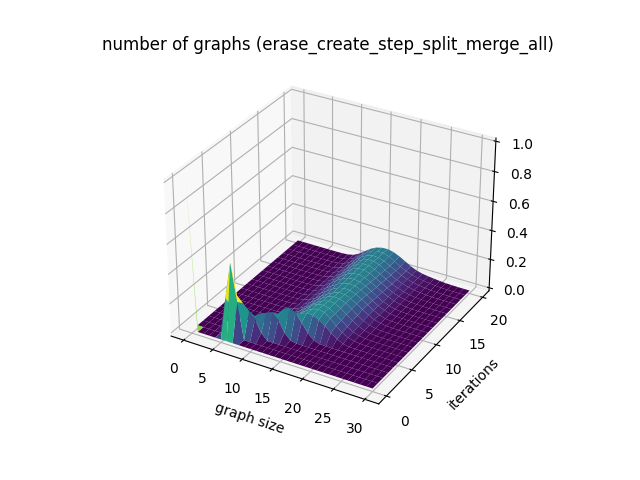
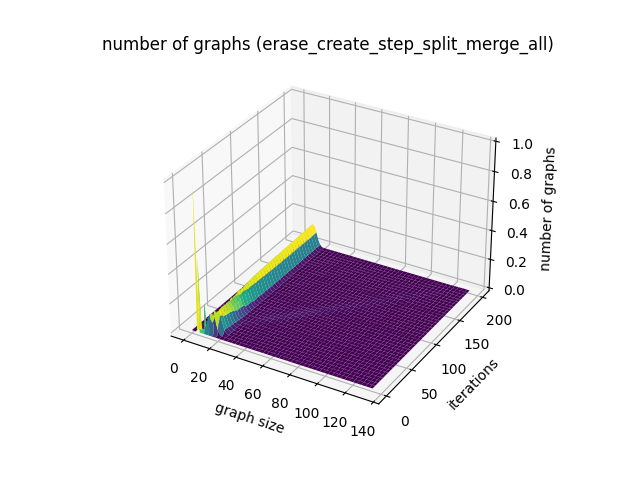
small improvments and added new rules

diff --git a/v5/grapher/quantum_iteration.cpp b/v5/grapher/quantum_iteration.cpp
@@ -11,6 +11,10 @@
     #define RULE "erase_create_step_split_merge_all"; //"step_split_merge_all" //"step_erase_create_all" //"split_merge_step_erase_create_all"
 #endif
 
+#ifndef RULE2
+    #define RULE2 ""; //"step_split_merge_all" //"step_erase_create_all" //"split_merge_step_erase_create_all"
+#endif
+
 #ifndef N_ITER
     #define N_ITER 20
 #endif
@@ -34,8 +38,9 @@ int main() {
     auto [non_merge, merge] = unitary(M_PI_4, M_PI_2);
 
     std::function<tbb::concurrent_vector<std::pair<std::shared_ptr<graph_t>, std::complex<double>>>(std::shared_ptr<graph_t> g)> rule;
+    std::function<tbb::concurrent_vector<std::pair<std::shared_ptr<graph_t>, std::complex<double>>>(std::shared_ptr<graph_t> g)> rule2;
 
-    auto rule_ = RULE;
+    std::string rule_ = RULE;
     if (rule_ == "step_split_merge_all") {
         rule = step_split_merge_all(non_merge, merge);
     } else if (rule_ == "step_erase_create_all") {
@@ -47,9 +52,27 @@ int main() {
     } else
         return -1;
 
-    start_json(g_1, rule_);
+    bool rule2_ = true;
+    rule_ = RULE2;
+    if (rule_ == "split_merge_all") {
+        rule2 = split_merge_all(non_merge, merge);
+    } if (rule_ == "erase_create_all") {
+        rule2 = erase_create_all(non_merge, merge);
+    } else
+        rule2_ = false;
+
+    if (rule2_)
+        rule_ += "_";
+
+    rule_ += RULE;
+    start_json(g_1, rule_.c_str());
     
     for (int i = 1; i < N_ITER + 1; ++i) {
+        if (rule2_) {
+            s->step_all(rule2);
+            s->reduce_all();
+        }
+
         s->step_all(rule);
         s->reduce_all();
 

diff --git a/v5/quantum/state.hpp b/v5/quantum/state.hpp
@@ -4,6 +4,7 @@
 #include "../classical/graph.hpp"
 #include <tbb/concurrent_unordered_map.h>
 #include <tbb/concurrent_vector.h>
+#include <boost/range/combine.hpp>
 #include <map>
 
 // forward definition of the state type
@@ -24,7 +25,21 @@ public:
 	// comparator
 	struct graph_comparator {
 		bool operator()(std::shared_ptr<graph_t> const &g1, std::shared_ptr<graph_t> const &g2) const {
-			return g1.get()->hash() == g2.get()->hash();
+			#ifdef SLOW_COMPARE
+				if (g1->left != g2->left)
+					return false;
+
+				if (g1->right != g2->right)
+					return false;
+
+				for (auto [n1, n2] : boost::combine(g1->name().nodes(), g2->name().nodes()))
+					if (n1.hash() != n2.hash())
+						return false;
+
+				return true;
+			#else
+				return g1->hash() == g2->hash();
+			#endif
 		}
 	};
 
@@ -130,8 +145,6 @@ void state::discard_all(size_t n_graphs) {
 		}
 	}
 
-	printf("\na\n");
-
 	graphs_.clear();
 	for (auto & [_, key] : map)
 		graphs_.insert(key);
@@ -200,9 +213,7 @@ void start_json(graph_t const* initial, char const* rule) {
 
 	// print initial state staitisic
 	printf("\n\t\"initial state\" : {\n");
-	printf("\t\t\"size\" : %ld,\n", initial->size());
-	printf("\t\t\"left\" : %ld,\n", initial->left.size());
-	printf("\t\t\"right\" : %ld\n", initial->right.size());
+	printf("\t\t\"size\" : %ld\n", initial->size());
 	printf("\t},\n\t\"iterations\" : [");
 
 	// print first iteration statistic

diff --git a/v5/grapher/quantum_grapher.py b/v5/grapher/quantum_grapher.py
@@ -37,6 +37,9 @@ for i in range(n_iterations):
 #print("\nnums ", nums)
 #print("\nprobas ", probas)
 
+
+# graph probabilities
+
 fig = plt.figure()
 ax = plt.axes(projection='3d')
 
@@ -44,8 +47,12 @@ ax.plot_surface(iterations, sizes, probas, cmap='viridis', edgecolor='none')
 ax.set_title(f'graph probabilty ({ data["rule"] })')
 ax.set_ylabel('iterations')
 ax.set_xlabel('graph size')
+ax.set_zlabel('probability')
 
 fig.savefig(f'plots/probabilities/p_{ data["rule"] }_{ data["initial state"]["size"] }.png')
+
+
+# number of graphs 
 
 fig = plt.figure()
 ax = plt.axes(projection='3d')
@@ -54,9 +61,13 @@ ax.plot_surface(iterations, sizes, nums, cmap='viridis', edgecolor='none')
 ax.set_title(f'number of graphs ({ data["rule"] })')
 ax.set_ylabel('iterations')
 ax.set_xlabel('graph size')
+ax.set_zlabel('number of graphs')
 
 fig.savefig(f'plots/proportions/n_{ data["rule"] }_{ data["initial state"]["size"] }.png')
 
+
+# graph statistic
+# probability
 fig = plt.figure()
 ax = plt.axes()
 ax.set_xlabel('iterations')
@@ -70,6 +81,7 @@ ax.legend()
 ax.set_ylabel("proba", color=color)
 ax.tick_params(axis='y', labelcolor=color)
 
+# number of graphs
 ax2 = ax.twinx()
 ax2.plot(total_num, color=color2)
 ax2.set_ylabel("total number of graphs", color=color2)

diff --git a/v5/tests/state_test.cpp b/v5/tests/state_test.cpp
@@ -71,28 +71,30 @@ loop:
 
 		state_t* s = new state(g_1);
 		auto [non_merge, merge] = unitary(M_PI_4, M_PI_2);
-    	auto rule = split_merge_all(non_merge, merge);
-    	auto rule_ = erase_create_all(non_merge, merge);
+    	auto rule = step_split_merge_all(non_merge, merge);
+    	auto reversed_rule = reversed_step_split_merge_all(non_merge, merge);
+    	auto rule_ = step_erase_create_all(non_merge, merge);
+    	auto reversed_rule_ = reversed_step_erase_create_all(non_merge, merge);
 
 		s->step_all(rule);
 		s->reduce_all();
 
-		printf("\nmerge_split():\n"); print(s);
+		printf("\nstep_merge_split():\n"); print(s);
 
-		s->step_all(rule);
+		s->step_all(reversed_rule);
 		s->reduce_all();
 
-		printf("\n\nmerge_split():\n"); print(s);
+		printf("\n\nreversed_step_merge_split():\n"); print(s);
 
 		s->step_all(rule_);
 		s->reduce_all();
 
-		printf("\nerase_create():\n"); print(s);
+		printf("\nstep_erase_create():\n"); print(s);
 
-		s->step_all(rule_);
+		s->step_all(reversed_rule_);
 		s->reduce_all();
 
-		printf("\n\nerase_create():\n"); print(s);
+		printf("\n\nreversed_erase_create():\n"); print(s);
 
 		if (check(s)) {
 			printf("\nstate is OK\n");

diff --git a/v5/quantum/rules.hpp b/v5/quantum/rules.hpp
@@ -49,7 +49,7 @@ std::pair<std::complex<double>, std::complex<double>> unitary(double teta, doubl
 // split merge a graph
 auto split_merge_all(std::complex<double>& non_merge, std::complex<double>& merge) {
 	return [&](std::shared_ptr<graph_t> const &g) {
-		auto split_merge = get_split_merge((graph_t*)g.get());
+		auto split_merge = get_split_merge(g.get());
 		tbb::concurrent_vector<std::pair<std::shared_ptr<graph_t>, std::complex<double>>> graphs;
 
 		#pragma omp parallel

diff --git a/v5/tests/quantum_injectivity_test.cpp b/v5/tests/quantum_injectivity_test.cpp
@@ -75,7 +75,7 @@ loop:
 	    auto rule = step_split_merge_all(non_merge, merge);
 	    auto reversed_rule = reversed_step_split_merge_all(non_merge, merge);
 
-		int n_iter = 5;
+		int n_iter = 6;
 
 		for (int i = 0; i < n_iter; ++i) {
 			s->step_all(rule);
